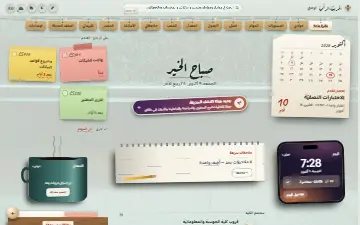
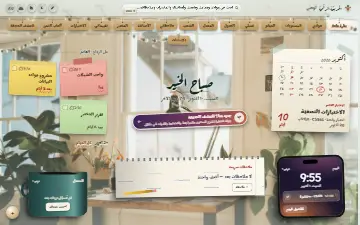
الثيمات: حلقة المعدل وخلفيات أدق وغرفة المذاكرة الصباحية

diff --git a/shared/skins/lofi.css b/shared/skins/lofi.css
@@ -144,7 +144,7 @@ html:root[data-skin="lofi"][data-theme="light"]:not([data-mod-theme]) {
   --lo-bulb-glow: rgba(255, 236, 200, .35);
   --lo-wire: rgba(28, 44, 36, .5);
   --lo-thread: rgba(28, 44, 36, .5);
-  --lo-scrim: radial-gradient(120% 90% at 50% 30%, rgba(236, 242, 237, .66), rgba(228, 236, 230, .8) 70%), linear-gradient(to bottom, rgba(232, 239, 234, .5), rgba(226, 233, 227, .35));
+  --lo-scrim: linear-gradient(to bottom, rgba(244, 246, 242, .42), rgba(244, 246, 242, .18) 32%, rgba(244, 246, 242, .24) 70%, rgba(236, 240, 234, .5));
   --lo-head: color-mix(in oklab, var(--lo-page) 92%, transparent);
   --lo-head-2: color-mix(in oklab, var(--lo-page) 70%, transparent);
   --lo-drop-o: 1;
@@ -335,7 +335,7 @@ html:root[data-skin="lofi"]:not([data-bg]) body::before {
   content: ""; position: fixed; inset: 0; z-index: -2; pointer-events: none;
   background: var(--lo-page) url("img/lofi/EH9f0TI5wco.webp") 50% 50% / cover no-repeat;
 }
-html:root[data-skin="lofi"][data-theme="light"]:not([data-bg]) body::before { background-image: url("img/lofi/dFhJ4wrU-sg.webp"); }
+html:root[data-skin="lofi"][data-theme="light"]:not([data-bg]) body::before { background-image: url("img/lofi/gdi9fJboJQU.webp"); }
 html:root[data-skin="lofi"]:not([data-bg]) body::after {
   content: ""; position: fixed; inset: 0; z-index: -2; pointer-events: none;
   background: var(--lo-scrim);
@@ -344,7 +344,7 @@ html:root[data-skin="lofi"]:not([data-bg]) body[data-notes-app]::before,
 html:root[data-skin="lofi"]:not([data-bg]) body[data-notes-app]::after { content: none; }
 @media (max-width: 1024px) {
   html:root[data-skin="lofi"]:not([data-bg]) body::before { background-image: url("img/lofi/EH9f0TI5wco-m.webp"); background-position: 62% 50%; }
-  html:root[data-skin="lofi"][data-theme="light"]:not([data-bg]) body::before { background-image: url("img/lofi/dFhJ4wrU-sg-m.webp"); background-position: 50% 40%; }
+  html:root[data-skin="lofi"][data-theme="light"]:not([data-bg]) body::before { background-image: url("img/lofi/gdi9fJboJQU-m.webp"); background-position: 50% 40%; }
 }
 
 html:root[data-skin="lofi"] .lo-world {
@@ -771,16 +771,18 @@ html:root[data-skin="lofi"] .widget[data-widget="today"] :is(.dash-today-more, .
 html:root[data-skin="lofi"] .widget[data-widget="gpa"] {
   position: relative; inline-size: min(100%, 236px); justify-self: center; margin-inline: auto; margin-block-start: 64px;
   min-block-size: 200px; padding: 26px 16px 22px; text-align: center;
-  border: 0; border-radius: 10px 10px 42px 42px / 10px 10px 30px 30px; clip-path: none;
+  border: 0; border-radius: 8px 8px 48px 48px / 8px 8px 36px 36px; clip-path: none;
   background:
     radial-gradient(50% 9px at 50% 7px, #1a0f08 0 52%, #3a2214 66%, transparent 74%),
     linear-gradient(90deg, var(--lo-mug-lo), var(--lo-mug) 30%, color-mix(in oklab, var(--lo-mug) 50%, var(--lo-mug-hi)) 62%, var(--lo-mug-hi) 76%, var(--lo-mug-lo) 96%);
   color: #f4ecdc;
-  box-shadow: -16px 14px 20px -8px rgba(0, 0, 0, .75);
+  box-shadow: -16px 14px 20px -8px rgba(0, 0, 0, .75), inset 0 3px 0 rgba(255, 255, 255, .16), inset 0 -14px 22px -8px rgba(0, 0, 0, .35);
+  --text-primary: #fbf3e2; --text-secondary: #f4ecdc; --text-muted: rgba(244, 236, 220, .78);
 }
 html:root[data-skin="lofi"] .widget[data-widget="gpa"]::after {
-  content: ""; position: absolute; inset-inline-end: -30px; inset-block-start: 40px; inline-size: 42px; block-size: 64px; pointer-events: none;
-  border: 10px solid var(--lo-mug-lo); border-inline-start-color: transparent; border-radius: 50%;
+  content: ""; position: absolute; z-index: -1; inset-inline-end: -36px; inset-block-start: 34px; inline-size: 58px; block-size: 82px; pointer-events: none;
+  border: 13px solid var(--lo-mug); border-inline-start-color: transparent; border-radius: 50%;
+  filter: drop-shadow(-6px 8px 6px rgba(0, 0, 0, .45));
 }
 html:root[data-skin="lofi"] .widget[data-widget="gpa"]::before {
   content: ""; position: absolute; inset-block-start: -84px; inset-inline-start: calc(50% - 45px); inline-size: 90px; block-size: 90px; pointer-events: none;
@@ -807,6 +809,7 @@ html:root[data-skin="lofi"] .widget[data-widget="gpa"] .widget-empty-cta {
 }
 html:root[data-skin="lofi"] .widget[data-widget="gpa"] .widget-empty-cta:hover { background: var(--lo-paper-hi); color: var(--lo-paper-ink); }
 html:root[data-skin="lofi"] .widget[data-widget="gpa"] .widget-bar { background: rgba(0, 0, 0, .3); }
+html:root[data-skin="lofi"] .widget[data-widget="gpa"] { --sk-ring: #f4ecdc; }
 
 html:root[data-skin="lofi"] .widget[data-widget="due"] {
   position: relative; margin-block-start: 30px; padding: 16px 16px 18px; text-align: center;
@@ -816,6 +819,8 @@ html:root[data-skin="lofi"] .widget[data-widget="due"] {
     linear-gradient(to bottom, color-mix(in oklab, var(--lo-wood) 60%, #c08850), var(--lo-wood));
   color: #f6ead6;
   box-shadow: -14px 12px 18px -8px rgba(0, 0, 0, .8), inset 0 1px 0 rgba(255, 220, 170, .35);
+  --text-primary: #fff4e2; --text-secondary: #f6ead6; --text-muted: rgba(246, 234, 214, .8); --border-color: rgba(255, 236, 210, .4);
+  --st-warn: #ffd18a; --bg-elevated: rgba(0, 0, 0, .2); --card-base: var(--lo-paper-hi); --card-edge: rgba(0, 0, 0, .3); --card-rule: rgba(0, 0, 0, .12);
 }
 html:root[data-skin="lofi"] .widget[data-widget="due"]::before {
   content: ""; position: absolute; inset-block-start: -26px; inset-inline: 16px; block-size: 30px; z-index: -1; pointer-events: none;
@@ -837,7 +842,7 @@ html:root[data-skin="lofi"] .widget[data-widget="due"] :is(.widget-empty-text, .
 html:root[data-skin="lofi"] .widget[data-widget="due"] .widget-empty { padding: 0; gap: 6px; min-block-size: 0; }
 html:root[data-skin="lofi"] .widget[data-widget="due"] .widget-metric,
 html:root[data-skin="lofi"] .widget[data-widget="due"] .dash-due-count b { font-family: var(--lo-f-latin); color: #fff4e2; }
-html:root[data-skin="lofi"] .widget[data-widget="due"] :is(.widget-empty-cta, .dash-today-more, .dash-btn) { background: var(--lo-paper); color: var(--lo-paper-ink); border: 0; }
+html:root[data-skin="lofi"] .widget[data-widget="due"] :is(.widget-empty-cta, .dash-today-more, .dash-btn, .dash-due-cta) { background: var(--lo-paper); color: var(--lo-paper-ink); border: 0; }
 
 html:root[data-skin="lofi"] .widget[data-widget="notes"] {
   position: relative; margin-block-start: 12px; padding: 28px 20px 16px; padding-inline-start: 50px;
@@ -1035,8 +1040,8 @@ html:root[data-skin="lofi"] .dash-main::after {
   font-family: var(--sk-f-ui); font-size: 11px; color: var(--lo-ink-3); text-shadow: var(--lo-shade);
 }
 html:root[data-skin="lofi"][lang="en"] .dash-main::after { content: "Photo: JC Gellidon · Unsplash"; }
-html:root[data-skin="lofi"][data-theme="light"] .dash-main::after { content: "تصوير: Clay LeConey · Unsplash"; }
-html:root[data-skin="lofi"][data-theme="light"][lang="en"] .dash-main::after { content: "Photo: Clay LeConey · Unsplash"; }
+html:root[data-skin="lofi"][data-theme="light"] .dash-main::after { content: "تصوير: Annie Spratt · Unsplash"; }
+html:root[data-skin="lofi"][data-theme="light"][lang="en"] .dash-main::after { content: "Photo: Annie Spratt · Unsplash"; }
 html:root[data-skin="lofi"][data-bg] .dash-main::after { content: none; }
 
 @media (min-width: 1200px) {

diff --git a/shared/skins/dexter.css b/shared/skins/dexter.css
@@ -322,6 +322,7 @@ html:root[data-skin="dexter"] {
   --lf-edge-hi: var(--dx-edge);
 }
 
+html:root[data-skin="dexter"] { --dx-photo-w: max(1960px, 50vw + 1200px, calc((100vw - var(--dx-photo-x)) / (1 - var(--dx-photo-at))), calc(var(--dx-photo-x) / (1 - var(--dx-photo-at))), calc((100vw - var(--dx-photo-x)) / var(--dx-photo-at)), calc(var(--dx-photo-x) / var(--dx-photo-at))); }
 html:root[data-skin="dexter"]:not([data-bg]) body { background: var(--dx-bg); }
 html:root[data-skin="dexter"]:not([data-bg]) body:not([data-notes-app])::before {
   content: ""; position: absolute; inset: 0 0 auto; block-size: max(100vh, 760px); max-block-size: 1120px; z-index: -1; pointer-events: none;
@@ -329,7 +330,7 @@ html:root[data-skin="dexter"]:not([data-bg]) body:not([data-notes-app])::before 
     linear-gradient(270deg, color-mix(in oklab, var(--dx-bg) 82%, transparent) 0%, color-mix(in oklab, var(--dx-bg) 45%, transparent) 30%, transparent 52%),
     linear-gradient(90deg, color-mix(in oklab, var(--dx-bg) 55%, transparent) 0%, transparent 30%),
     linear-gradient(180deg, color-mix(in oklab, var(--dx-bg) 74%, transparent) 0%, color-mix(in oklab, var(--dx-bg) 14%, transparent) 16%, color-mix(in oklab, var(--dx-bg) 10%, transparent) 46%, color-mix(in oklab, var(--dx-bg) 72%, transparent) 74%, var(--dx-bg) 100%),
-    var(--dx-photo) calc(var(--dx-photo-x) - var(--dx-photo-at) * max(1960px, 50vw + 1200px)) 34% / max(1960px, calc(50vw + 1200px)) auto no-repeat,
+    var(--dx-photo) calc(var(--dx-photo-x) - var(--dx-photo-at) * var(--dx-photo-w)) 34% / var(--dx-photo-w) auto no-repeat,
     var(--dx-bg);
 }
 html:root[data-skin="dexter"][dir="ltr"]:not([data-bg]) body:not([data-notes-app])::before {
@@ -337,19 +338,19 @@ html:root[data-skin="dexter"][dir="ltr"]:not([data-bg]) body:not([data-notes-app
     linear-gradient(90deg, color-mix(in oklab, var(--dx-bg) 82%, transparent) 0%, color-mix(in oklab, var(--dx-bg) 45%, transparent) 30%, transparent 52%),
     linear-gradient(270deg, color-mix(in oklab, var(--dx-bg) 55%, transparent) 0%, transparent 30%),
     linear-gradient(180deg, color-mix(in oklab, var(--dx-bg) 74%, transparent) 0%, color-mix(in oklab, var(--dx-bg) 14%, transparent) 16%, color-mix(in oklab, var(--dx-bg) 10%, transparent) 46%, color-mix(in oklab, var(--dx-bg) 72%, transparent) 74%, var(--dx-bg) 100%),
-    var(--dx-photo) calc(100vw - var(--dx-photo-x) - var(--dx-photo-at) * max(1960px, 50vw + 1200px)) 34% / max(1960px, calc(50vw + 1200px)) auto no-repeat,
+    var(--dx-photo) calc(100vw - var(--dx-photo-x) - var(--dx-photo-at) * var(--dx-photo-w)) 34% / var(--dx-photo-w) auto no-repeat,
     var(--dx-bg);
 }
 html:root[data-skin="dexter"]:not([data-bg]) body:not([data-notes-app]):not(:has(#widgets-grid))::before {
   background:
     linear-gradient(180deg, color-mix(in oklab, var(--dx-bg) 82%, transparent) 0%, color-mix(in oklab, var(--dx-bg) 60%, transparent) 18%, color-mix(in oklab, var(--dx-bg) 66%, transparent) 46%, color-mix(in oklab, var(--dx-bg) 86%, transparent) 74%, var(--dx-bg) 100%),
-    var(--dx-photo) calc(var(--dx-photo-x) - var(--dx-photo-at) * max(1960px, 50vw + 1200px)) 34% / max(1960px, calc(50vw + 1200px)) auto no-repeat,
+    var(--dx-photo) calc(var(--dx-photo-x) - var(--dx-photo-at) * var(--dx-photo-w)) 34% / var(--dx-photo-w) auto no-repeat,
     var(--dx-bg);
 }
 html:root[data-skin="dexter"][dir="ltr"]:not([data-bg]) body:not([data-notes-app]):not(:has(#widgets-grid))::before {
   background:
     linear-gradient(180deg, color-mix(in oklab, var(--dx-bg) 82%, transparent) 0%, color-mix(in oklab, var(--dx-bg) 60%, transparent) 18%, color-mix(in oklab, var(--dx-bg) 66%, transparent) 46%, color-mix(in oklab, var(--dx-bg) 86%, transparent) 74%, var(--dx-bg) 100%),
-    var(--dx-photo) calc(100vw - var(--dx-photo-x) - var(--dx-photo-at) * max(1960px, 50vw + 1200px)) 34% / max(1960px, calc(50vw + 1200px)) auto no-repeat,
+    var(--dx-photo) calc(100vw - var(--dx-photo-x) - var(--dx-photo-at) * var(--dx-photo-w)) 34% / var(--dx-photo-w) auto no-repeat,
     var(--dx-bg);
 }
 html:root[data-skin="dexter"]:not([data-bg]) body:not([data-notes-app])::after {

diff --git a/shared/skins/album.css b/shared/skins/album.css
@@ -425,7 +425,7 @@ html:root[data-skin="album"] .al-sheen {
 @keyframes al-spin { to { transform: rotate(-360deg); } }
 html:root[data-skin="album"] .al-art.al-off .al-disc { animation-play-state: paused; }
 html:root[data-skin="album"] .al-credit {
-  display: inline-block; margin-block-start: 10px; font-size: 11px; line-height: 1.6; color: var(--al-ink-3); text-decoration: none; white-space: nowrap;
+  display: inline-block; margin-block-start: 10px; font-size: 11px; line-height: 1.6; color: var(--al-ink-2); text-decoration: none; white-space: nowrap;
 }
 html:root[data-skin="album"] .al-credit:hover { color: var(--al-ink-2); text-decoration: underline; }
 
@@ -723,6 +723,7 @@ html:root[data-skin="album"] .widget[data-widget="gpa"]::after {
 }
 html:root[data-skin="album"] .widget[data-widget="gpa"] :is(.widget-head, .widget-head span, .widget-link, .widget-metric, .widget-sub, .widget-empty-text, .widget-empty-icon) { color: var(--al-wrap-ink); }
 html:root[data-skin="album"] .widget[data-widget="gpa"] .widget-head { font-size: 13px; border: 0; padding: 0; }
+html:root[data-skin="album"] .widget[data-widget="gpa"] { --sk-ring: var(--al-wrap-ink); }
 html:root[data-skin="album"] .widget[data-widget="gpa"] .widget-head::before { content: "ملخّصك · "; order: 1; }
 html:root[data-skin="album"][lang="en"] .widget[data-widget="gpa"] .widget-head::before { content: "Your wrap · "; }
 html:root[data-skin="album"] .widget[data-widget="gpa"] .widget-head .widget-icon { order: 3; background: none; color: var(--al-wrap-ink); margin-inline-start: auto; font-size: 16px !important; }

diff --git a/shared/skins/base.css b/shared/skins/base.css
@@ -378,6 +378,13 @@ html:root:is([data-skin="hunter"], [data-skin="planner"], [data-skin="manga"], [
   html:root[data-skin]:not(#_):not(#__) .nr-fsize { min-block-size: 32px; }
 }
 html:root[data-skin] { --gp-g1: var(--sk-acc); --gp-g2: color-mix(in oklab, var(--sk-acc) 78%, #000); --gp-glow: color-mix(in oklab, var(--sk-acc) 26%, transparent); }
+html:root[data-skin] :is(#dashRingGrad, #gpGrad) stop:first-of-type { stop-color: var(--gp-g1); }
+html:root[data-skin] :is(#dashRingGrad, #gpGrad) stop:last-of-type { stop-color: var(--gp-g2); }
+html:root[data-skin] .widget-ring svg { shape-rendering: geometricPrecision; }
+html:root[data-skin] .widget-ring-bg { stroke: color-mix(in oklab, var(--sk-ring, var(--sk-acc)) 20%, transparent); }
+html:root[data-skin] .widget-ring-fill { stroke: var(--sk-ring, var(--sk-acc)); }
+html:root[data-skin] .sch-day-head.today .sch-dh-num { background: var(--sk-acc); color: var(--sk-acc-ink); }
+html:root:is([data-skin="dexter"], [data-skin="departures"], [data-skin="rain"], [data-skin="lofi"], [data-skin="witcher"]):not([data-bg]) :is(.content-target, .dash-hero-sub, .gp-sub, .sx-sub, .set-sub, #sem-sub, .sem-sub, .g-crumbs) { color: var(--text-secondary); text-shadow: 0 0 2px var(--sk-page), 0 0 8px var(--sk-page), 0 0 16px color-mix(in oklab, var(--sk-page) 70%, transparent); }
 html:root[data-skin] .gm-wrap { --gm-memory: var(--sk-acc); }
 html:root[data-skin] :is(.pl-lab, .pl-overlay) { --tint-tab: var(--sk-acc); }
 html:root[data-skin]:not(#_):not(#__) .set-btn--primary i { color: currentColor; }

diff --git a/shared/skins/abyss.css b/shared/skins/abyss.css
@@ -415,7 +415,7 @@ html:root[data-skin="abyss"] .widget-bar { block-size: 4px; border-radius: 3px; 
 html:root[data-skin="abyss"] .widget-bar-fill { border-radius: 3px; background: linear-gradient(to left, var(--ab-glow), color-mix(in srgb, var(--ab-glow) 25%, transparent)); box-shadow: 0 0 10px color-mix(in srgb, var(--ab-glow) 70%, transparent); }
 html:root[data-skin="abyss"][dir="ltr"] .widget-bar-fill { background: linear-gradient(to right, var(--ab-glow), color-mix(in srgb, var(--ab-glow) 25%, transparent)); }
 html:root[data-skin="abyss"] .widget-ring-bg { stroke: color-mix(in srgb, var(--ab-glow) 16%, transparent); }
-html:root[data-skin="abyss"] .widget-ring-fill { stroke: var(--ab-glow); filter: drop-shadow(0 0 4px var(--ab-glow)); }
+html:root[data-skin="abyss"] .widget-ring-fill { stroke: var(--ab-glow); filter: drop-shadow(0 0 1.5px color-mix(in srgb, var(--ab-glow) 70%, transparent)); }
 html:root[data-skin="abyss"] .widget-empty-cta { padding: .42rem 1.05rem; }
 html:root[data-skin="abyss"] :is(.widget-empty-cta, .dash-today-more, .wn-add, .dash-btn, .sem-btn, .set-btn, .nt-btn, .gp-btn, .sx-mini, .crs-btn, .gsf-btn, .sch-tool, .sch-nav-btn, .sch-today-btn) { font-weight: 600; }
 html:root[data-skin="abyss"] :is(.sx-primary, .sx-cta-go, .sem-btn--primary, .dcx-btn--primary, .gcc-btn--primary, .ng-b.is-primary, .sch-btn-primary, .set-card .dash-btn-primary, .gp-btn--primary, .crs-btn--primary, .gsf-btn--go, .sp-door--go, .dash-btn-primary, .cm-btn--chat) {

diff --git a/shared/skins/witcher.css b/shared/skins/witcher.css
@@ -745,7 +745,7 @@ html:root[data-skin="witcher"][dir="rtl"] #dash-tour-promo.dash-full-set { clip-
 html:root[data-skin="witcher"] #dash-tour-promo.dash-full-set:hover { transform: rotate(0) translateX(calc(var(--wt-dir) * 6px)); background: var(--wt-tx-grainH), linear-gradient(180deg, var(--wt-wood-on-a) 0, var(--wt-wood-on-b) 45%, var(--wt-wood-on-c) 100%); }
 html:root[data-skin="witcher"] #dash-tour-promo .dash-full-set-ic { inline-size: 40px; block-size: 40px; flex: none; border-radius: 50%; display: grid; place-items: center; color: #1c2126; background: radial-gradient(circle at 34% 28%, var(--wt-coin-a) 0, var(--wt-coin-b) 30%, var(--wt-coin-c) 62%, var(--wt-coin-d) 100%); box-shadow: 0 2px 4px rgba(0, 0, 0, .45); border: 0; }
 html:root[data-skin="witcher"] #dash-tour-promo .dash-full-set-n { font-family: var(--sk-f-head); font-size: 21px; font-weight: 700; color: var(--wt-wood-ink); text-shadow: 0 1px 0 rgba(255, 236, 200, .3); }
-html:root[data-skin="witcher"] #dash-tour-promo .dash-full-set-d { font-family: var(--sk-f-ui); font-size: 13.5px; color: var(--wt-tour-ink); }
+html:root[data-skin="witcher"] #dash-tour-promo .dash-full-set-d { font-family: var(--sk-f-ui); font-size: 13.5px; font-weight: 600; color: var(--wt-wood-ink); text-shadow: 0 1px 0 rgba(255, 236, 200, .3); }
 html:root[data-skin="witcher"] #dash-tour-promo .dash-full-set-go { display: none; }
 
 html:root[data-skin="witcher"] .widget[data-widget="tasks"] {

diff --git a/shared/skins/quiet.css b/shared/skins/quiet.css
@@ -532,7 +532,7 @@ html:root[data-skin="quiet"] .sch-head-row { background: var(--qt-bg) !important
 html:root[data-skin="quiet"] .sch-day-head { background: none !important; border: 0; box-shadow: none; font-family: var(--sk-f-ui); font-weight: 400; color: var(--qt-ink-2); }
 html:root[data-skin="quiet"] .sch-day-head.today { color: var(--qt-ink); }
 html:root[data-skin="quiet"] .sch-dh-num { font-family: var(--sk-f-num); font-weight: 300; font-size: 1.25em; color: inherit; background: none; }
-html:root[data-skin="quiet"] .sch-day-head.today .sch-dh-num { color: var(--qt-acc); }
+html:root[data-skin="quiet"] .sch-day-head.today .sch-dh-num { color: var(--qt-acc); background: none; }
 html:root[data-skin="quiet"] .sch-daycol.is-today { background: color-mix(in oklab, var(--qt-acc) 4%, transparent) !important; }
 html:root[data-skin="quiet"] .sch-pastveil { background: color-mix(in oklab, var(--qt-ink) 2.5%, transparent) !important; }
 html:root[data-skin="quiet"] .sch-ev { background: var(--qt-bg) !important; border: 0 !important; border-inline-start: 2px solid var(--event-color, var(--qt-acc)) !important; border-radius: 0 !important; box-shadow: none !important; }

diff --git a/shared/skins/saudi.css b/shared/skins/saudi.css
@@ -664,6 +664,7 @@ html:root[data-skin="saudi"] .widget[data-widget="gpa"] .widget-link { color: #f
 html:root[data-skin="saudi"] .widget:is([data-widget="gpa"], [data-widget="due"], [data-widget="community"]) :is(.widget-body, .widget-empty) { flex: 0 0 auto; align-items: center; justify-content: flex-end; gap: 6px; padding: 0; }
 html:root[data-skin="saudi"] .widget:is([data-widget="gpa"], [data-widget="due"], [data-widget="community"]) .widget-metric { font-size: 40px; line-height: 1.1; }
 html:root[data-skin="saudi"] .widget[data-widget="gpa"] .widget-metric { color: #f6d98f; font-size: 44px; }
+html:root[data-skin="saudi"] .widget[data-widget="gpa"] { --sk-ring: #f6d98f; }
 html:root[data-skin="saudi"] .widget[data-widget="gpa"] :is(.widget-sub, .widget-empty-text, .widget-empty-icon) { color: #e9dcc0; }
 html:root[data-skin="saudi"] .widget[data-widget="gpa"] .widget-empty-cta { background: color-mix(in oklab, #f6d98f 22%, transparent); color: #fff4d8; }
 html:root[data-skin="saudi"] .widget[data-widget="gpa"] .widget-empty-cta:hover { background: color-mix(in oklab, #f6d98f 34%, transparent); color: #fff; }

diff --git a/shared/skins/hunter.css b/shared/skins/hunter.css
@@ -39,6 +39,7 @@ html:root[data-skin="hunter"]:not([data-mod-theme]) {
   color-scheme: dark;
 }
 html:root[data-skin="hunter"][data-theme="light"]:not([data-mod-theme]) {
+  --st-warn: #8a5a12;
   --hn-void: #e8dfca;
   --hn-panel: rgba(246, 239, 224, .94);
   --hn-panel-2: rgba(238, 229, 209, .96);
